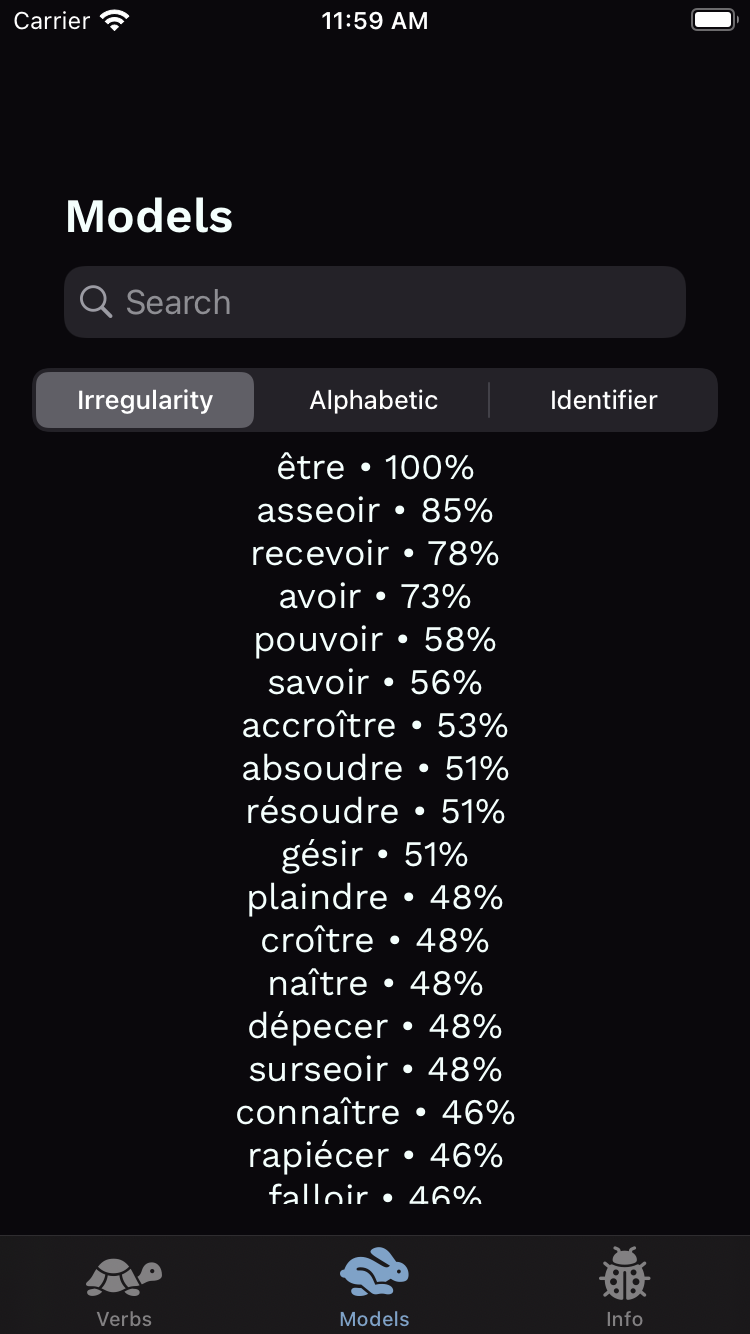
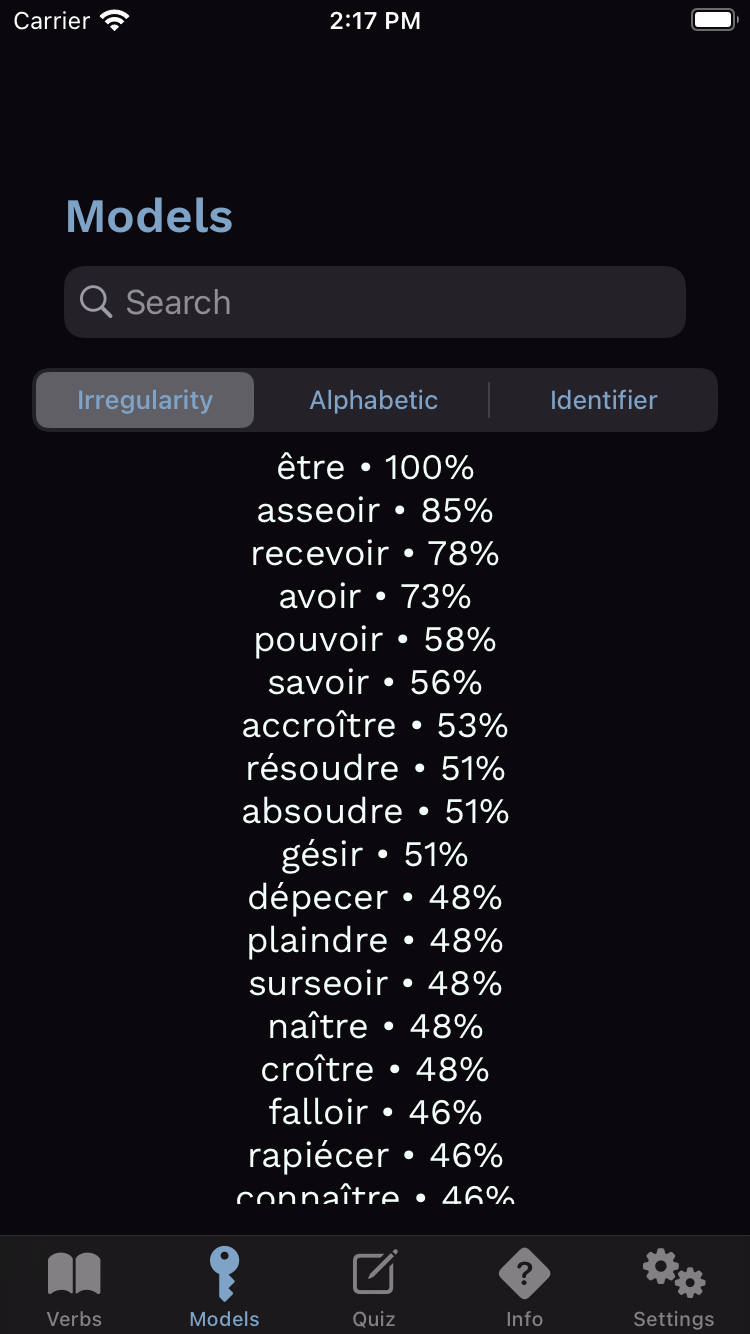
update readme; start stem-alteration info

diff --git a/Conjuguer/Views/ModelView.swift b/Conjuguer/Views/ModelView.swift
@@ -9,6 +9,7 @@ import SwiftUI
 
 struct ModelView: View {
   @State private var isPresentingVerb = false
+  @State private var isPresentingStemAlterationsInfo = false
   let model: VerbModel
 
   init(model: VerbModel) {
@@ -67,8 +68,18 @@ struct ModelView: View {
               .frame(height: Layout.doubleDefaultSpacing)
 
             if let stemAlterations = model.stemAlterationsRecursive {
-              Text(L.ModelView.stemAlterations)
-                .subheadingLabel()
+              HStack {
+                Text(L.ModelView.stemAlterations)
+                  .subheadingLabel()
+                Spacer()
+                Button {
+                  isPresentingStemAlterationsInfo = true
+                } label: {
+                    Image(systemName: "questionmark.diamond.fill")
+                }
+                  .buttonStyle(.borderless)
+                  .tint(.customRed)
+              }
               ForEach(stemAlterations, id: \.self) { alteration in
                 // TODO: Add an info button describing abbreviations to the right of "Stem Alterations".
                 let appliesToString = Tense.shorthandForNonCompoundTense(appliesTo: alteration.appliesTo)
@@ -112,6 +123,15 @@ struct ModelView: View {
         Current.verb.map {
           VerbView(verb: $0, shouldShowVerbHeading: true)
         }
+      }
+    )
+    .sheet(
+      isPresented: $isPresentingStemAlterationsInfo,
+      onDismiss: {
+        isPresentingStemAlterationsInfo = false
+      },
+      content: {
+        InfoView(info: Info.infos[Info.headingToIndex(heading: L.Info.stemAlterationsHeading) ?? 0], shouldShowInfoHeading: true)
       }
     )
     .onAppear {

diff --git a/Conjuguer/Models/Info.swift b/Conjuguer/Models/Info.swift
@@ -30,6 +30,7 @@ struct Info: Hashable {
     Info(heading: L.Info.participePasséHeading, text: L.Info.participePasséText),
     Info(heading: L.Info.participePrésentHeading, text: L.Info.participePrésentText),
     Info(heading: L.Info.radicalFuturHeading, text: L.Info.radicalFuturText),
+    Info(heading: L.Info.stemAlterationsHeading, text: L.Info.stemAlterationsText),
     Info(heading: L.Info.indicatifPrésentHeading, text: L.Info.indicatifPrésentText),
     Info(heading: L.Info.passéSimpleHeading, text: L.Info.passéSimpleText),
     Info(heading: L.Info.imparfaitHeading, text: L.Info.imparfaitText),

diff --git a/Conjuguer/Models/L.swift b/Conjuguer/Models/L.swift
@@ -247,6 +247,14 @@ enum L {
       NSLocalizedString("Info.radicalFuturText", comment: "")
     }
 
+    static var stemAlterationsHeading: String {
+      NSLocalizedString("Info.stemAlterationsHeading", comment: "")
+    }
+
+    static var stemAlterationsText: String {
+      NSLocalizedString("Info.stemAlterationsText", comment: "")
+    }
+
     static var indicatifPrésentHeading: String {
       NSLocalizedString("Info.indicatifPrésentHeading", comment: "")
     }

diff --git a/README.md b/README.md
@@ -1,8 +1,8 @@
 ![Conjuguer](Images/Splash.png "Conjugar's Launch Screen")
 
-**Conjuguer** is a nascent iOS™ app for learning French verb conjugations. **Conjuguer** conjugates 6,311 verbs, regular and irregular, in _all_ French verb tenses.
+**Conjuguer** is a nascent iOS™ app for learning French verb conjugations. **Conjuguer** conjugates 6,314 verbs, regular and irregular, in _all_ French verb tenses.
 
-**Conjuguer** shares and will share features with its Spanish-verb predecessor, [Conjugar](https://itunes.apple.com/us/app/conjugar/id1236500467?mt=8), but **Conjuguer** represents conjugation irregularities in a more parsimonious manner, allowing **Conjuguer** to conjugate more verbs.
+**Conjuguer** shares features with its Spanish-verb predecessor, [Conjugar](https://itunes.apple.com/us/app/conjugar/id1236500467?mt=8), but **Conjuguer** represents conjugation irregularities in a more parsimonious manner, allowing **Conjuguer** to conjugate more verbs.
 
 Unlike Conjugar, **Conjuguer** contains verb frequency-of-use data, which allows learners to focus their studies on the most important verbs.
 
@@ -16,22 +16,19 @@ Unlike Conjugar, **Conjuguer** contains verb frequency-of-use data, which allows
 | --- | --- |
 | ![](Images/models.png) | ![](Images/model.png) |
 
+| Tense-Description List | Tense Description |
+| --- | --- |
+| ![](Images/infos.png) | ![](Images/info.png) |
+
 ### License
 
 **Conjuguer** is licensed under the GNU General Public License in order to discourage release of low-quality clones to the App Store™. Conjugar briefly suffered this indignity.
 
-The image in the placeholder app icon and splash-screen are by Anirudh Koul, who released the image under the [CC BY-NC 2.0](https://creativecommons.org/licenses/by-nc/2.0/).
-
 ### TODOs
 
-* Add quiz mode and integrate with Game Center™.
-* Add more descriptions of tenses.
-* Add a help button to explain endings and stem alterations on the verb-model screen.
-* Add unit tests for non-SwiftUI code. There _are_ unit tests for all eighty-five verb models and for all compound tenses.
+* Add unit tests for non-SwiftUI code. There _are_ unit tests for all ninty-five verb models and for all compound tenses.
 * Ensure that the app takes full advantage of accessibility APIs and features.
-* Hire a designer to create an app icon and other icons.
 * Create a Vapor-based analytics backend and instrument the client.
 * Put iOS-specific, SwiftUI, and verb-conjugation code in separate frameworks to facilitate a Mac port.
-* Allow users to specify pronoun genders.
-* I salute you for reading this far.
+* I thank you for reading this far.
 
